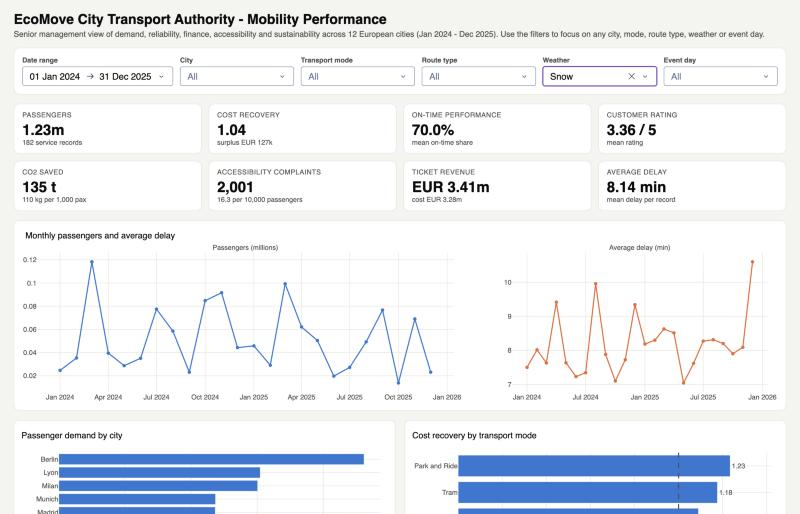
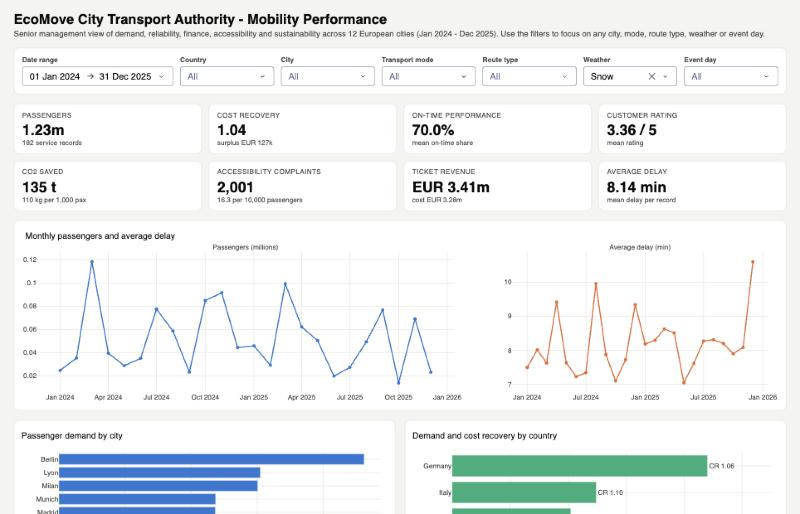
Add country filter and panel to dashboard, process notebook and updated screenshots

diff --git a/ecomove_dashboard.py b/ecomove_dashboard.py
@@ -13,7 +13,7 @@ from ecomove_analysis import load_data
 
 df = load_data()
 
-BLUE, ORANGE, RED, GREY = "#2a78d6", "#eb6834", "#e34948", "#9a9993"
+BLUE, ORANGE, RED, GREY, AQUA = "#2a78d6", "#eb6834", "#e34948", "#9a9993", "#1baf7a"
 INK, INK2, GRID, SURFACE, PAGE = "#0b0b0b", "#52514e", "#e6e5e0", "#ffffff", "#f4f4f1"
 FONT = "Inter, Segoe UI, Helvetica, Arial, sans-serif"
 
@@ -55,7 +55,7 @@ app.index_string = app.index_string.replace("</head>", """
  body{margin:0;background:%s;font-family:%s;color:%s}
  .wrap{max-width:1400px;margin:0 auto;padding:20px 24px 40px}
  h1{font-size:24px;margin:0 0 4px} .lede{color:%s;margin:0 0 16px;font-size:14px}
- .filters{display:grid;grid-template-columns:1.3fr repeat(5,1fr);gap:12px;background:#fff;
+ .filters{display:grid;grid-template-columns:1.3fr repeat(6,1fr);gap:12px;background:#fff;
    padding:14px;border-radius:10px;border:1px solid %s;margin-bottom:16px}
  .flabel{font-size:12px;font-weight:600;color:%s;display:block;margin-bottom:4px}
  .kpis{display:grid;grid-template-columns:repeat(4,1fr);gap:12px;margin-bottom:16px}
@@ -80,6 +80,7 @@ app.layout = html.Div(className="wrap", children=[
                                       max_date_allowed=df.Date.max(),
                                       start_date=df.Date.min(), end_date=df.Date.max(),
                                       display_format="DD MMM YYYY")]),
+        dropdown("country", "Country", "Country"),
         dropdown("city", "City", "City"),
         dropdown("mode", "Transport mode", "Transport_Mode"),
         dropdown("route", "Route type", "Route_Type"),
@@ -95,17 +96,18 @@ app.layout = html.Div(className="wrap", children=[
     html.Div(className="grid", children=[
         html.Div(dcc.Graph(id="g-trend"), className="card wide"),
         html.Div(dcc.Graph(id="g-city"), className="card"),
+        html.Div(dcc.Graph(id="g-country"), className="card"),
         html.Div(dcc.Graph(id="g-mode"), className="card"),
         html.Div(dcc.Graph(id="g-weather"), className="card"),
         html.Div(dcc.Graph(id="g-access"), className="card"),
-        html.Div(dcc.Graph(id="g-co2"), className="card wide"),
+        html.Div(dcc.Graph(id="g-co2"), className="card"),
     ]),
 ])
 
 
-def filter_df(start, end, city, mode, route, weather, event):
+def filter_df(start, end, country, city, mode, route, weather, event):
     d = df[(df.Date >= start) & (df.Date <= end)]
-    for col, sel in [("City", city), ("Transport_Mode", mode), ("Route_Type", route),
+    for col, sel in [("Country", country), ("City", city), ("Transport_Mode", mode), ("Route_Type", route),
                      ("Weather", weather), ("Event_Day", event)]:
         if sel:
             d = d[d[col].isin(sel)]
@@ -127,13 +129,14 @@ def empty(title):
       "k-sat", "k-sat-sub", "k-co2", "k-co2-sub", "k-acc", "k-acc-sub",
       "k-rev", "k-rev-sub", "k-delay", "k-delay-sub"]] +
     [Output(i, "figure") for i in
-     ["g-trend", "g-city", "g-mode", "g-weather", "g-access", "g-co2"]],
+     ["g-trend", "g-city", "g-country", "g-mode", "g-weather", "g-access", "g-co2"]],
     [Input("dates", "start_date"), Input("dates", "end_date"),
-     Input("city", "value"), Input("mode", "value"), Input("route", "value"),
+     Input("country", "value"), Input("city", "value"), Input("mode", "value"), Input("route", "value"),
      Input("weather", "value"), Input("event", "value")])
-def update(start, end, city, mode, route, weather, event):
-    d = filter_df(start, end, city, mode, route, weather, event)
+def update(start, end, country, city, mode, route, weather, event):
+    d = filter_df(start, end, country, city, mode, route, weather, event)
     titles = ["Monthly passengers and average delay", "Passenger demand by city",
+              "Demand and cost recovery by country",
               "Cost recovery by transport mode", "Delay distribution by weather",
               "Accessibility complaints per 10,000 passengers by route type",
               "CO2 saved by city and transport mode (tonnes)"]
@@ -172,6 +175,21 @@ def update(start, end, city, mode, route, weather, event):
     f2 = style(f2, titles[1], 380)
     f2.update_layout(xaxis_title="Passengers", yaxis_title=None)
 
+    # 2b. Country comparison: passengers per country, cost recovery in hover and label
+    k = d.groupby("Country").agg(P=("Passengers", "sum"), R=("Ticket_Revenue_EUR", "sum"),
+                                 C=("Operating_Cost_EUR", "sum"), N=("City", "nunique"),
+                                 RT=("Customer_Rating", "mean")).reset_index()
+    k["CR"] = k.R / k.C
+    k = k.sort_values("P")
+    fc = go.Figure(go.Bar(x=k.P / 1e6, y=k.Country, orientation="h", marker_color=AQUA,
+                          text=[f"CR {v:.2f}" for v in k.CR], textposition="outside",
+                          customdata=k[["N", "CR", "RT"]],
+                          hovertemplate="%{y}<br>%{x:.2f}m passengers across %{customdata[0]} cities"
+                                        "<br>Cost recovery %{customdata[1]:.2f}<br>Rating %{customdata[2]:.2f}<extra></extra>"))
+    fc = style(fc, titles[2], 380)
+    fc.update_layout(xaxis_title="Passengers (millions)  ·  label = cost-recovery ratio",
+                     xaxis_range=[0, k.P.max() / 1e6 * 1.25])
+
     # 3. Cost recovery by mode
     t = d.groupby("Transport_Mode").agg(R=("Ticket_Revenue_EUR", "sum"), C=("Operating_Cost_EUR", "sum")).reset_index()
     t["CR"] = t.R / t.C
@@ -182,14 +200,14 @@ def update(start, end, city, mode, route, weather, event):
                           hovertemplate="%{y}<br>Cost recovery %{x:.2f}<extra></extra>"))
     f3.add_vline(x=1, line_dash="dash", line_color=INK2,
                  annotation_text="break-even", annotation_position="bottom right")
-    f3 = style(f3, titles[2], 380)
+    f3 = style(f3, titles[3], 380)
     f3.update_layout(xaxis_title="Revenue / operating cost", xaxis_range=[0, max(1.4, t.CR.max() * 1.15)])
 
     # 4. Delay by weather
     order = d.groupby("Weather").Average_Delay_Minutes.median().sort_values().index.tolist()
     f4 = px.box(d, x="Weather", y="Average_Delay_Minutes", category_orders={"Weather": order})
     f4.update_traces(marker_color=BLUE, line_color=BLUE, fillcolor="rgba(42,120,214,0.25)")
-    f4 = style(f4, titles[3])
+    f4 = style(f4, titles[4])
     f4.update_layout(yaxis_title="Delay (min)", xaxis_title=None)
 
     # 5. Accessibility complaints rate by route type
@@ -199,7 +217,7 @@ def update(start, end, city, mode, route, weather, event):
     f5 = go.Figure(go.Bar(x=a.Rate, y=a.Route_Type, orientation="h", marker_color=ORANGE,
                           text=[f"{v:.1f}" for v in a.Rate], textposition="outside",
                           hovertemplate="%{y}<br>%{x:.1f} complaints per 10k passengers<extra></extra>"))
-    f5 = style(f5, titles[4])
+    f5 = style(f5, titles[5])
     f5.update_layout(xaxis_title="Complaints per 10,000 passengers", xaxis_range=[0, a.Rate.max() * 1.2])
 
     # 6. CO2 treemap
@@ -209,10 +227,10 @@ def update(start, end, city, mode, route, weather, event):
                     color="Tonnes", color_continuous_scale=["#cde2fb", "#5598e7", "#104281"])
     f6.update_traces(hovertemplate="%{label}<br>%{value:,.0f} t CO2 saved<extra></extra>",
                      marker=dict(line=dict(color="white", width=2)))
-    f6 = style(f6, titles[5], 420)
+    f6 = style(f6, titles[6], 420)
     f6.update_layout(coloraxis_showscale=False, margin=dict(l=10, r=10, t=50, b=10))
 
-    return kpis + [f1, f2, f3, f4, f5, f6]
+    return kpis + [f1, f2, fc, f3, f4, f5, f6]
 
 
 if __name__ == "__main__":

diff --git a/README.md b/README.md
@@ -9,10 +9,11 @@ EcoMove City Transport Authority dataset (public transport and shared mobility i
 | File | Purpose |
 |---|---|
 | `ecomove_analysis.py` | Loads and cleans the data, prints quality checks and summary tables, and saves eight figures to `figures/` |
-| `ecomove_dashboard.py` | Interactive Plotly Dash dashboard with date, city, mode, route, weather and event-day filters |
+| `ecomove_dashboard.py` | Interactive Plotly Dash dashboard with date, country, city, mode, route, weather and event-day filters |
+| `EcoMove_Analysis.ipynb` | Local step-by-step notebook: load, inspect, quality checks, cleaning, summary tables and figures |
 | `EcoMove_Colab.ipynb` | Step-by-step notebook for running everything in Google Colab |
 | `figures/` | The eight static visualisations |
-| `screenshots/` | Dashboard screenshots, unfiltered and filtered to snow days |
+| `screenshots/` | Process screenshots (notebook run) and dashboard screenshots, unfiltered and filtered to snow days |
 
 ## Figures
 
